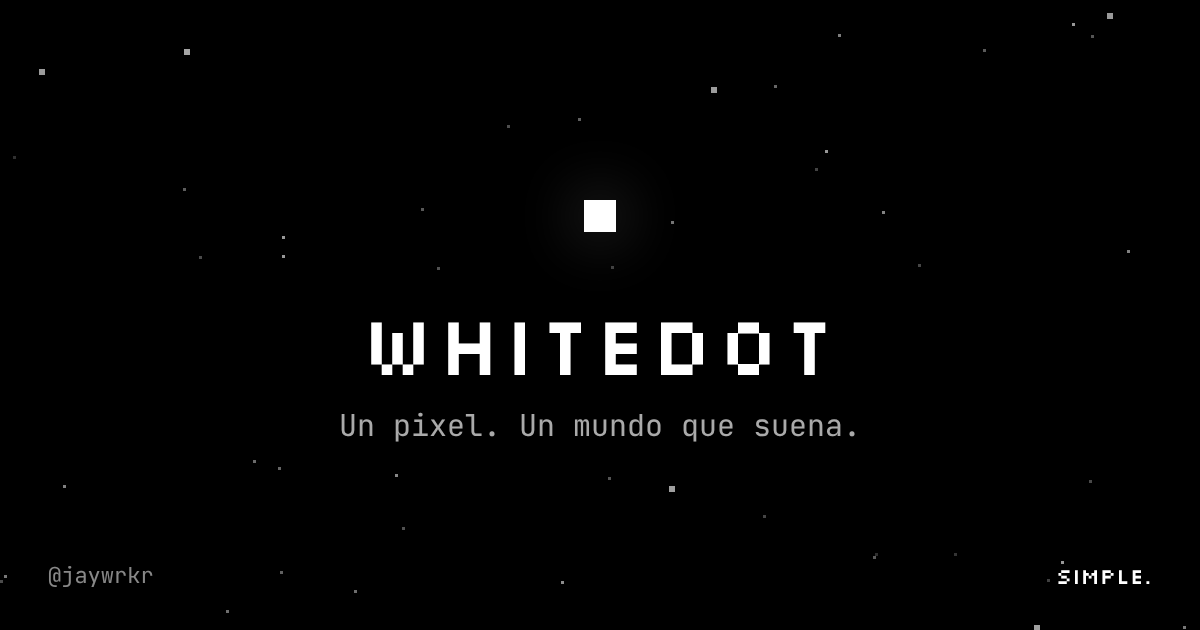
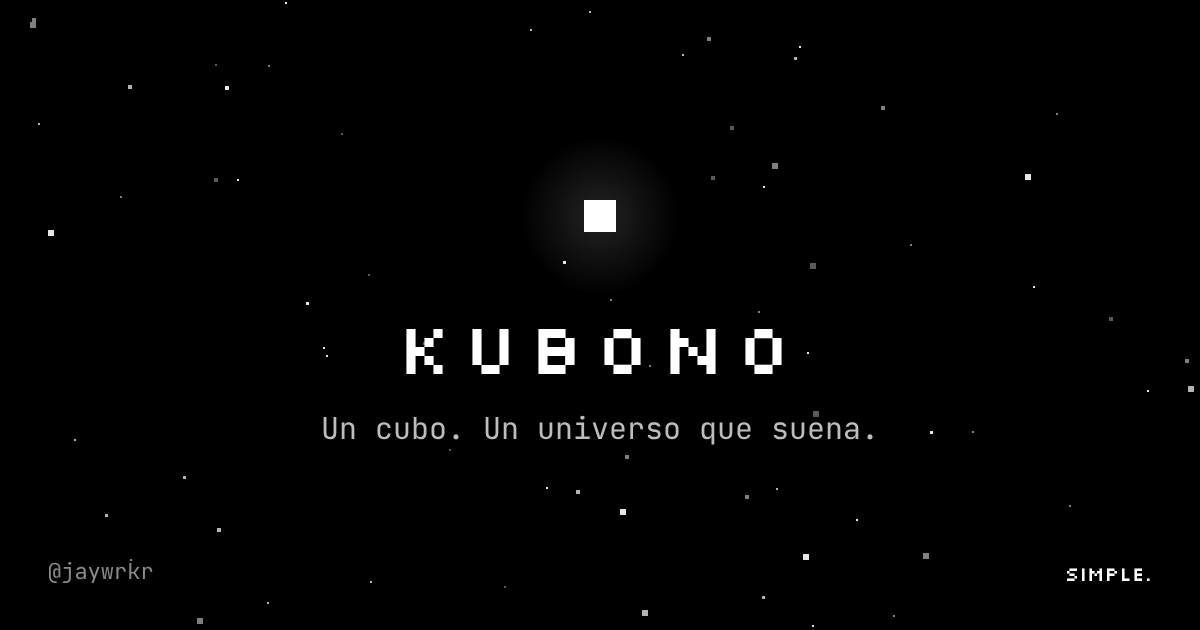
Rename the player-facing brand to Kubono, gate seed travel to development and keep one arrival per day
Titles, meta, manifest, Android label, share cards, image texts and download names now say Kubono; the social preview is re-rendered with the repository fonts. Save keys, cache names, the backup format, the Android package and the deployed URL keep their identifiers so progress and updates are preserved.

Seed travel and the lab catalog link are hidden outside development, travel to another seed's address is blocked with a notice, and a player already in another seed keeps the panel to return. seed_travel_gate_smoke covers it from a non-local host.

Reopening the game the same day keeps the player in place; the new daily place still arrives on entering the Mundo, and on load only for a save left in the Mundo across midnight. This also stops the load-time arrival from being consumed before enterWorld while in the Camino.

Claude-Session: https://claude.ai/code/session_01MfAicKf9iSVKBC9ZLtw4Pu

diff --git a/src/seeds.js b/src/seeds.js
@@ -23,6 +23,8 @@ export function initialize(runtime){
  function visit(value,{center=false}={}){if(!saveBeforeLeaving())return;const url=new URL(location.href);url.searchParams.delete('addr');if(center)url.searchParams.set('center','1');else url.searchParams.delete('center');url.searchParams.set('testSeed',normalizeSeed(value));url.searchParams.set('layout',$('seedLayout').value);url.searchParams.set('generation',$('seedGeneration').value);if(prototype&&select.value)url.searchParams.set('encounter',select.value);else url.searchParams.delete('encounter');if(prototype)url.searchParams.delete('travel');else{url.searchParams.set('travel','1');url.searchParams.delete('lab');}location.assign(url.href);}
  $('dSeeds').onclick=()=>open(true);$('seedClose').onclick=()=>$('mSeeds').hidden=true;
  $('bWorlds').onclick=()=>open(false);
+ // A player already in another seed keeps the panel to go back to the original world.
+ document.body.classList.toggle('seed-travel',!!runtime.S.previewSeed);
  $('seedForm').onsubmit=e=>{e.preventDefault();visit($('seedValue').value);};
  $('seedNext').onclick=()=>{$('seedLayout').value='vasto';visit('mundo-'+Date.now().toString(36));};
  $('seedCenter').onclick=()=>visit(runtime.S.previewSeed||'original',{center:true});
@@ -33,7 +35,9 @@ export function initialize(runtime){
   s.layer='superficie';s.wx=s.wy=runtime.REG*runtime.WCH/2;if(select.value==='installation'||new URLSearchParams(location.search).get('encounter')==='installation'){s.wx=2050;s.wy=900;}if(new URLSearchParams(location.search).get('encounter')==='glass'){s.wx=1080;s.wy=900;}if(select.value==='materia'||new URLSearchParams(location.search).get('encounter')==='materia'){s.wx=1800;s.wy=2450;}s.help.camino=true;s.help.mundo=true;s.helpV2=true;
   s.ach.mundo??=s.todayKey;s.mode='camino';runtime.enterWorld();if(keep){s.wx=position.x;s.wy=position.y;s.layer=position.layer;if(s.layer!=='superficie')runtime.restoreLayerMusic?.();}if(realTravel)s.travelReady=true;runtime.save();if(new URLSearchParams(location.search).has('center')){const url=new URL(location.href);url.searchParams.delete('center');history.replaceState(null,'',url);}
  }
- function visitAddress(address){if(!supportedWorld(address)||!supportedMusic(address)||address.seed&&normalizeSeed(address.seed)!==address.seed)return false;if(!saveBeforeLeaving())return false;try{sessionStorage.setItem(returnKey,encodePlace(placeAddress(runtime.musicalAddress?.()||runtime.worldIdentity,runtime.S.wx,runtime.S.wy,runtime.S.layer||'superficie')));}catch(_){}const url=new URL(location.href);for(const key of ['lab','encounter'])url.searchParams.delete(key);if(!address.seed&&address.layout==='classic'&&address.generatorVersion===1)url.searchParams.delete('testSeed');else url.searchParams.set('testSeed',address.seed||'original');url.searchParams.set('layout',address.layout);url.searchParams.set('generation',String(address.generatorVersion));url.searchParams.set('travel','1');url.searchParams.set('addr',encodePlace(address));location.assign(url.href);return true;}
+ // Other seeds are separate saves and online copies: outside development only the current world and the original one are reachable.
+ function seedTravelOpen(address){return document.body.classList.contains('dev')||sameWorld(address,runtime.worldIdentity)||!address.seed&&address.layout==='classic'&&address.generatorVersion===1;}
+ function visitAddress(address){if(!supportedWorld(address)||!supportedMusic(address)||address.seed&&normalizeSeed(address.seed)!==address.seed)return false;if(!seedTravelOpen(address)){runtime.toast('Ese lugar es de otra semilla.');return false;}if(!saveBeforeLeaving())return false;try{sessionStorage.setItem(returnKey,encodePlace(placeAddress(runtime.musicalAddress?.()||runtime.worldIdentity,runtime.S.wx,runtime.S.wy,runtime.S.layer||'superficie')));}catch(_){}const url=new URL(location.href);for(const key of ['lab','encounter'])url.searchParams.delete(key);if(!address.seed&&address.layout==='classic'&&address.generatorVersion===1)url.searchParams.delete('testSeed');else url.searchParams.set('testSeed',address.seed||'original');url.searchParams.set('layout',address.layout);url.searchParams.set('generation',String(address.generatorVersion));url.searchParams.set('travel','1');url.searchParams.set('addr',encodePlace(address));location.assign(url.href);return true;}
  const code=new URLSearchParams(location.search).get('addr');if(code)try{const {address}=decodePlace(code);if(sameWorld(address,runtime.worldIdentity)){arrivedByAddress=true;runtime.S.wx=address.x;runtime.S.wy=address.y;runtime.S.layer=address.layer;if(address.musicVersion===1){runtime.S.livingMusic=address.musicMode==='live';runtime.refreshLivingMusic?.();}runtime.S.travelReady=true;runtime.ptr=null;if(address.layer!=='superficie')runtime.restoreLayerMusic?.();runtime.save();const url=new URL(location.href);url.searchParams.delete('addr');url.searchParams.set('travel','1');history.replaceState(null,'',url);}else runtime.toast('El código necesita su semilla y versión originales.');}catch(_){runtime.toast('No se pudo abrir el código de regreso.');}
  Object.defineProperties(runtime,{arrivedByAddress:{get:()=>arrivedByAddress},openSeedLab:{get:()=>open},visitWorldAddress:{get:()=>visitAddress},previousWorldAddress:{get:()=>previousAddress}});
 }

diff --git a/src/rare-cards.js b/src/rare-cards.js
@@ -84,7 +84,7 @@ export function initialize(runtime){
    ${context.length?'<p class="rare-biome">'+escape(context.join(' · '))+'</p>':''}${card.observations?.length?'<p class="rare-biome">'+card.observations.length+' observaciones posteriores</p>':''}
    ${card.forced?'<p class="rare-provenance">Muestra forzada; no demuestra un encuentro natural.</p>':''}${card.legacy?'<p class="rare-provenance">Recuperada del progreso anterior; sin hora original.</p>':''}
    <details><summary>Cómo de raro es</summary><p>${escape(card.odds.condition)}</p></details>
-   ${card.learning?.version===1?`<p class="rare-biome">${card.learning.contexts.length} encuentros distintos · ${card.learning.techniques.length} interpretaciones</p>${card.learning.techniques.length<2?'<small>Vuelve bajo otra luz o prueba otro gesto.</small>':''}<button data-rare-technique="${index}" ${card.learning.techniques.length<2?'disabled':''}>Interpretación · ${escape(CARD_TECHNIQUES[card.learning.selected]||'Natural')}</button>`:''}${powerInfo}${address?`<div class="rare-actions"><button data-rare-png="${index}">Imagen</button><button data-rare-copy="${index}">Copiar lugar</button><button data-rare-return="${index}" ${canReturn?'':'disabled'}>Orientar</button></div>${canReturn?'':'<p class="rare-provenance">Para volver: Menú → Viajar a otra semilla.</p>'}`:''}
+   ${card.learning?.version===1?`<p class="rare-biome">${card.learning.contexts.length} encuentros distintos · ${card.learning.techniques.length} interpretaciones</p>${card.learning.techniques.length<2?'<small>Vuelve bajo otra luz o prueba otro gesto.</small>':''}<button data-rare-technique="${index}" ${card.learning.techniques.length<2?'disabled':''}>Interpretación · ${escape(CARD_TECHNIQUES[card.learning.selected]||'Natural')}</button>`:''}${powerInfo}${address?`<div class="rare-actions"><button data-rare-png="${index}">Imagen</button><button data-rare-copy="${index}">Copiar lugar</button><button data-rare-return="${index}" ${canReturn?'':'disabled'}>Orientar</button></div>${canReturn?'':'<p class="rare-provenance">Encontrada en otra semilla.</p>'}`:''}
   </details></article>`;
  }
  function cards(search=''){
@@ -99,8 +99,8 @@ export function initialize(runtime){
   await document.fonts.load('400 22px "Geist Mono"');
   const canvas=document.createElement('canvas');canvas.width=512;canvas.height=720;const c=canvas.getContext('2d');c.fillStyle='#000';c.fillRect(0,0,512,720);c.strokeStyle=CARD_TIERS[card.odds.tier].ink;c.lineWidth=2;c.strokeRect(24,24,464,672);
   const svg=rarePortrait(card).replace('<svg ', '<svg xmlns="http://www.w3.org/2000/svg" ').replace('class="rare-glyph"','stroke="#d7c497" fill="none" stroke-width="1.3"').replace('class="rare-orbit"','stroke="#596268" fill="none"').replace('class="rare-sparks"','stroke="#d7c497" fill="none"');
-  const url=URL.createObjectURL(new Blob([svg],{type:'image/svg+xml'}));try{const img=new Image();img.src=url;await img.decode();c.drawImage(img,96,110,320,240);c.fillStyle='#e5e9e9';c.font='22px "Geist Mono", monospace';c.textAlign='center';c.fillText(card.name.slice(0,33),256,395);c.font='14px "Geist Mono", monospace';[location(card),rarityLabel(card.type,card.odds),'Semilla '+(card.world.seed||'original'),card.world.layout+' · '+(card.address?.layer||'sin ubicación'),'WHITEDOT · #'+cardSerial(card.id)].forEach((text,i)=>c.fillText(text.slice(0,49),256,450+i*35));
-   const blob=await new Promise(resolve=>canvas.toBlob(resolve,'image/png'));if(!blob)throw Error('Imagen no disponible');const out=URL.createObjectURL(blob),a=document.createElement('a');a.href=out;a.download='whitedot-'+cardSerial(card.id)+'.png';a.click();setTimeout(()=>URL.revokeObjectURL(out),1000);
+  const url=URL.createObjectURL(new Blob([svg],{type:'image/svg+xml'}));try{const img=new Image();img.src=url;await img.decode();c.drawImage(img,96,110,320,240);c.fillStyle='#e5e9e9';c.font='22px "Geist Mono", monospace';c.textAlign='center';c.fillText(card.name.slice(0,33),256,395);c.font='14px "Geist Mono", monospace';[location(card),rarityLabel(card.type,card.odds),'Semilla '+(card.world.seed||'original'),card.world.layout+' · '+(card.address?.layer||'sin ubicación'),'KUBONO · #'+cardSerial(card.id)].forEach((text,i)=>c.fillText(text.slice(0,49),256,450+i*35));
+   const blob=await new Promise(resolve=>canvas.toBlob(resolve,'image/png'));if(!blob)throw Error('Imagen no disponible');const out=URL.createObjectURL(blob),a=document.createElement('a');a.href=out;a.download='kubono-'+cardSerial(card.id)+'.png';a.click();setTimeout(()=>URL.revokeObjectURL(out),1000);
   }catch(_){runtime.toast('No se pudo exportar la imagen. El código del lugar sigue disponible.');}finally{URL.revokeObjectURL(url);}
  }
  async function action(event){

diff --git a/src/identity-play.js b/src/identity-play.js
@@ -11,7 +11,7 @@ export function initialize(runtime){let owner=null,showAll=false;
  function panel(){const b=book(),items=b.items.filter(c=>c&&Array.isArray(c.points)&&typeof c.id==='string'),canSave=constellationPoints(runtime.S.session?.constellation).length&&!b.readOnly&&b.items.length<24;
   return '<article class="journal-card constellation-summary"><h3>Tu música deja una figura</h3><p>Conserva relaciones y lugares. La música continúa viviendo.</p><button data-constellation-save '+(canSave?'':'disabled')+'>Conservar constelación</button>'+items.slice(showAll?0:-3).reverse().map(c=>'<details class="musical-constellation"><summary>'+safe(c.day)+' · '+constellationPoints(c.points).length+' voces</summary>'+svg(c)+'<button data-constellation-image="'+safe(c.id)+'">Imagen</button>'+(supportedWorld(c.address)&&Number.isFinite(c.address.x)&&Number.isFinite(c.address.y)?'<button data-constellation-return="'+safe(c.id)+'">Volver al lugar</button>':'')+(Array.isArray(c.cardIds)&&c.cardIds.length?'<button data-constellation-home="'+safe(c.id)+'">Usar voces en casa</button>':'')+'</details>').join('')+(items.length>3?'<button data-constellation-more>'+ (showAll?'Ver recientes':'Ver todas') +'</button>':'')+'<small>'+items.length+' constelaciones conservadas</small></article>';
  }
- async function image(item){await document.fonts.load('400 24px "Geist Mono"');const canvas=document.createElement('canvas');canvas.width=1080;canvas.height=1350;const c=canvas.getContext('2d'),points=constellationPlot(item.points);c.fillStyle='#000';c.fillRect(0,0,1080,1350);c.strokeStyle='#ffffff55';c.lineWidth=2;c.beginPath();points.forEach((p,i)=>c[i?'lineTo':'moveTo'](80+p.x*920,300+p.y*700));c.stroke();c.fillStyle='#fff';for(const p of points)c.fillRect(80+p.x*920-4,300+p.y*700-4,8,8);c.font='24px "Geist Mono", monospace';c.fillText('WHITEDOT · '+item.day,80,160);c.fillText('Una constelación de voces.',80,1180);runtime.$('shareImg').src=canvas.toDataURL('image/png');runtime.$('shareImg').alt='Mi constelación musical';runtime.$('mJournal').hidden=true;runtime.$('mShare').hidden=false;}
+ async function image(item){await document.fonts.load('400 24px "Geist Mono"');const canvas=document.createElement('canvas');canvas.width=1080;canvas.height=1350;const c=canvas.getContext('2d'),points=constellationPlot(item.points);c.fillStyle='#000';c.fillRect(0,0,1080,1350);c.strokeStyle='#ffffff55';c.lineWidth=2;c.beginPath();points.forEach((p,i)=>c[i?'lineTo':'moveTo'](80+p.x*920,300+p.y*700));c.stroke();c.fillStyle='#fff';for(const p of points)c.fillRect(80+p.x*920-4,300+p.y*700-4,8,8);c.font='24px "Geist Mono", monospace';c.fillText('KUBONO · '+item.day,80,160);c.fillText('Una constelación de voces.',80,1180);runtime.$('shareImg').src=canvas.toDataURL('image/png');runtime.$('shareImg').alt='Mi constelación musical';runtime.$('mJournal').hidden=true;runtime.$('mShare').hidden=false;}
  runtime.$('journalBody').addEventListener('click',e=>{if(e.target.closest('[data-constellation-more]')){showAll=!showAll;runtime.refreshJournal?.();return;}const save=e.target.closest('[data-constellation-save]');if(save){capture();return;}const b=e.target.closest('[data-constellation-image],[data-constellation-return],[data-constellation-home]');if(!b)return;const id=b.dataset.constellationImage||b.dataset.constellationReturn||b.dataset.constellationHome,item=book().items.find(c=>c&&c.id===id);if(!item)return;
   if(b.dataset.constellationImage)image(item);else if(b.dataset.constellationReturn)runtime.visitWorldAddress?.(item.address);else if(b.dataset.constellationHome&&!runtime.gardenState.readOnly){runtime.gardenState.cards=(Array.isArray(item.cardIds)?item.cardIds:[]).filter(id=>runtime.rareCards.some(c=>c.id===id)).slice(0,4);runtime.save();runtime.$('mJournal').hidden=true;runtime.enterHouse();}
  });

diff --git a/src/share-tools.js b/src/share-tools.js
@@ -42,7 +42,7 @@ export function initialize(runtime){
   const same=sameWorld(place.address,runtime.worldIdentity);
   const point=runtime.addFavoriteAddress?.(place.address,place.name||'Lugar compartido');
   if(!point){$('placeCodeInfo').textContent=runtime.storageStatus.kind==='ok'?'Favoritos lleno. Libera un lugar.':'No se pudo guardar en este dispositivo.';return null;}
-  $('placeCodeInfo').textContent=same?'Guardado en Favoritos. Te oriento hacia allá.':`Guardado. Es de otro mundo (semilla “${place.address.seed||'original'}”): ábrelo desde Viajar a otra semilla.`;
+  $('placeCodeInfo').textContent=same?'Guardado en Favoritos. Te oriento hacia allá.':`Guardado. Es de otra semilla (“${place.address.seed||'original'}”).`;
   if(same)runtime.selectDestination?.(point.id);runtime.unlock('codigoAbierto');return point;
  }
  $('placeShare').onclick=shareHere;
@@ -57,7 +57,7 @@ export function initialize(runtime){
    const w=game.width,h=game.height,area=1080/1250,cw=w/h>area?h*area:w,ch=w/h>area?h:w/area;
    if(w&&h)x.drawImage(game,(w-cw)/2,(h-ch)/2,cw,ch,0,0,1080,1250);
    x.fillStyle='#000';x.fillRect(0,1250,1080,100);x.textBaseline='middle';
-   x.fillStyle='#fff';x.font='34px "Geist Mono", monospace';x.fillText('WHITEDOT',56,1300);
+   x.fillStyle='#fff';x.font='34px "Geist Mono", monospace';x.fillText('KUBONO',56,1300);
    x.fillStyle='#ffffff99';x.font='26px "Geist Mono", monospace';x.textAlign='right';x.fillText('@jaywrkr',1024,1300);x.textAlign='left';
   };
   draw();return {canvas:c,timer:setInterval(draw,1000/30)};
@@ -87,14 +87,14 @@ export function initialize(runtime){
  function finish(type){
   if(!rec.recorder)return;
   releaseCapture();
-  const blob=new Blob(rec.chunks,{type:type.split(';')[0]}),ext=type.includes('mp4')?'mp4':'webm',name=`whitedot-set-${new Date().toISOString().slice(0,16).replace(/[:T]/g,'-')}.${ext}`;
+  const blob=new Blob(rec.chunks,{type:type.split(';')[0]}),ext=type.includes('mp4')?'mp4':'webm',name=`kubono-set-${new Date().toISOString().slice(0,16).replace(/[:T]/g,'-')}.${ext}`;
   rec.recorder=null;rec.dest=null;setUI();if(!blob.size){runtime.toast('<em>Grabar</em> · no se grabó nada');return;}
   if(rec.url)URL.revokeObjectURL(rec.url);
   const url=rec.url=URL.createObjectURL(blob),file=new File([blob],name,{type:blob.type});runtime.lastSet={url,name,size:blob.size,type:blob.type,file};
   $('setVideo').src=url;$('setDownload').href=url;$('setDownload').download=name;$('setShare').hidden=!(navigator.canShare?.({files:[file]}));$('mSet').hidden=false;runtime.S.setCount=(runtime.S.setCount||0)+1;(runtime.S.setLog||=[]).push({at:new Date().toISOString().slice(0,10),name:name.slice(0,80),seconds:Math.min(60,Math.round((Date.now()-rec.started)/1000))});if(runtime.S.setLog.length>100)runtime.S.setLog.shift();runtime.save();runtime.unlock('set1');
  }
  $('bRecord').onclick=e=>{e.stopPropagation();start();};$('recBadge').onclick=stop;
- $('setShare').onclick=async()=>{const f=runtime.lastSet?.file;if(f)try{await navigator.share({files:[f],title:'Mi set en WHITEDOT',text:'@jaywrkr'});}catch(_){}};
+ $('setShare').onclick=async()=>{const f=runtime.lastSet?.file;if(f)try{await navigator.share({files:[f],title:'Mi set en Kubono',text:'@jaywrkr'});}catch(_){}};
  $('setClose').onclick=()=>{$('mSet').hidden=true;};
  addEventListener('pagehide',()=>{if(rec.recorder)stop();});
  Object.defineProperties(runtime,{encodeFavorite:{get:()=>point=>encodePlace(point.address,point.name)},placeCode:{get:()=>currentCode},openPlaceCode:{get:()=>openCode},startSet:{get:()=>start},stopSet:{get:()=>stop},setRecording:{get:()=>!!rec.recorder}});

diff --git a/src/celebration.js b/src/celebration.js
@@ -42,9 +42,9 @@ export function initialize(runtime){
  }
  async function share(){const event=current;if(!event?.power)return;const canvas=document.createElement('canvas');canvas.width=512;canvas.height=640;const c=canvas.getContext('2d');c.fillStyle='#000';c.fillRect(0,0,512,640);c.strokeStyle=runtime.GOLD;c.strokeRect(24,24,464,592);
   const svg=rarePortrait({type:'box:'+event.power}).replace('<svg ','<svg xmlns="http://www.w3.org/2000/svg" ').replace('class="rare-glyph"','stroke="#f0d27a" fill="none" stroke-width="1.5"').replace('class="rare-orbit"','stroke="#ffffff44" fill="none"').replace('class="rare-sparks"','stroke="#f0d27a" fill="none"');
-  const url=URL.createObjectURL(new Blob([svg],{type:'image/svg+xml'}));try{await document.fonts.load('400 24px "Geist Mono"');const image=new Image();image.src=url;await image.decode();c.drawImage(image,96,80,320,240);c.textAlign='center';c.fillStyle='#fff';c.font='24px "Geist Mono", monospace';c.fillText(event.name.toUpperCase(),256,355,440);c.font='14px "Geist Mono",monospace';c.fillStyle=runtime.GOLD;c.fillText(event.gift?'Regalo · poder temporal':REWARD_RARITIES[event.rarity].name,256,390);c.fillStyle='#fff';c.fillText(event.seconds+' s de juego',256,420);c.font='12px "Geist Mono",monospace';const words=event.effect.split(' ');for(let i=0;i<words.length;i+=7)c.fillText(words.slice(i,i+7).join(' '),256,455+i/7*22);c.fillText('WHITEDOT · @jaywrkr',256,590);
+  const url=URL.createObjectURL(new Blob([svg],{type:'image/svg+xml'}));try{await document.fonts.load('400 24px "Geist Mono"');const image=new Image();image.src=url;await image.decode();c.drawImage(image,96,80,320,240);c.textAlign='center';c.fillStyle='#fff';c.font='24px "Geist Mono", monospace';c.fillText(event.name.toUpperCase(),256,355,440);c.font='14px "Geist Mono",monospace';c.fillStyle=runtime.GOLD;c.fillText(event.gift?'Regalo · poder temporal':REWARD_RARITIES[event.rarity].name,256,390);c.fillStyle='#fff';c.fillText(event.seconds+' s de juego',256,420);c.font='12px "Geist Mono",monospace';const words=event.effect.split(' ');for(let i=0;i<words.length;i+=7)c.fillText(words.slice(i,i+7).join(' '),256,455+i/7*22);c.fillText('KUBONO · @jaywrkr',256,590);
    c.fillStyle='#ffffff99';c.font='11px "Geist Mono", monospace';c.fillText(event.where||'',256,540,420);c.fillText('#'+(event.serial||cardSerial(event.id)),256,563);
-   const blob=await new Promise(resolve=>canvas.toBlob(resolve,'image/png'));if(!blob)throw Error('PNG');const out=URL.createObjectURL(blob),a=document.createElement('a');a.href=out;a.download='whitedot-poder-'+event.power+'.png';a.click();setTimeout(()=>URL.revokeObjectURL(out),1000);
+   const blob=await new Promise(resolve=>canvas.toBlob(resolve,'image/png'));if(!blob)throw Error('PNG');const out=URL.createObjectURL(blob),a=document.createElement('a');a.href=out;a.download='kubono-poder-'+event.power+'.png';a.click();setTimeout(()=>URL.revokeObjectURL(out),1000);
   }catch(_){runtime.toast('Intenta compartir de nuevo. Tu hallazgo sigue guardado.');}finally{URL.revokeObjectURL(url);}
  }
  $('celebrationDismiss').onclick=close;$('celebrationContinue').onclick=()=>{if(current&&panel.dataset.layout==='compact'){panel.dataset.layout='full';panel.dataset.inspect='true';panel.setAttribute('role','dialog');panel.setAttribute('aria-modal','true');$('celebrationContinue').textContent='Volver';$('celebrationContinue').focus({preventScroll:true});}else close();};$('celebrationShare').onclick=share;

diff --git a/src/save-tools.js b/src/save-tools.js
@@ -4,7 +4,7 @@ export function initialize(runtime){
  function text(message){status.textContent=message;}
  function refresh(){const s=runtime.storageStatus;text(s.message);$('saveRecover').hidden=s.kind!=='recovered';$('saveImportApply').disabled=!pending;$('saveOriginal').hidden=!runtime.saveStore.original()||!s.locked;}
  function download(value,name){const blob=new Blob([value],{type:'application/json'}),url=URL.createObjectURL(blob),a=document.createElement('a');a.href=url;a.download=name;document.body.append(a);a.click();a.remove();setTimeout(()=>URL.revokeObjectURL(url),1000);}
- function exportCurrent(){try{runtime.S.collected=[...runtime.collected];const data=makeBackup(runtime.S,runtime.fresh(),runtime.worldIdentity,runtime.saveScope);download(checkSaveSize(JSON.stringify(data)),`whitedot-${runtime.saveScope.kind}-${runtime.saveScope.seed||'principal'}-${runtime.worldIdentity.generatorVersion===2?'vivo':'original'}.json`);text('Copia descargada. Guárdala para recuperar esta partida.');}catch(error){text(error.message);}}
+ function exportCurrent(){try{runtime.S.collected=[...runtime.collected];const data=makeBackup(runtime.S,runtime.fresh(),runtime.worldIdentity,runtime.saveScope);download(checkSaveSize(JSON.stringify(data)),`kubono-${runtime.saveScope.kind}-${runtime.saveScope.seed||'principal'}-${runtime.worldIdentity.generatorVersion===2?'vivo':'original'}.json`);text('Copia descargada. Guárdala para recuperar esta partida.');}catch(error){text(error.message);}}
  async function choose(file){pending=null;$('saveImportApply').disabled=true;const token=++reading;if(!file)return;
   try{if(file.size>MAX_SAVE_BYTES)throw Error('Archivo demasiado grande');const raw=await file.text();if(token!==reading)return;pending=readBackup(raw,runtime.fresh(),runtime.worldIdentity,runtime.saveScope);text(`Copia válida: ${Object.keys(pending.ach||{}).length} logros · ${pending.favorites.items.length} favoritos. Restaurar conserva una copia previa y recarga el juego.`);$('saveImportApply').disabled=false;}catch(error){if(token===reading)text(error.message);}
  }
@@ -13,6 +13,6 @@ export function initialize(runtime){
  function open(){pending=null;$('saveImportFile').value='';reading++;refresh();panel.hidden=false;}
  function tick(){const s=runtime.storageStatus;if(s.kind==='ok'){lastNotice='';return;}if(s.kind!==lastNotice&&runtime.toast){lastNotice=s.kind;runtime.toast('No pudimos guardar en este dispositivo. Tu progreso necesita atención.');}}
  $('bSaveTools').onclick=open;$('saveToolsClose').onclick=()=>{panel.hidden=true;reading++;pending=null;};$('saveExport').onclick=exportCurrent;$('saveImportFile').onchange=e=>choose(e.target.files[0]);$('saveImportApply').onclick=apply;$('saveRecover').onclick=recover;
- $('saveOriginal').onclick=()=>download(runtime.saveStore.original(),'whitedot-original-conservado.json');
+ $('saveOriginal').onclick=()=>download(runtime.saveStore.original(),'kubono-original-conservado.json');
  Object.defineProperties(runtime,{saveToolsTick:{get:()=>tick},openSaveTools:{get:()=>open}});
 }

diff --git a/index.html b/index.html
@@ -7,24 +7,24 @@
 <meta name="apple-mobile-web-app-capable" content="yes">
 <meta name="mobile-web-app-capable" content="yes">
 <meta name="apple-mobile-web-app-status-bar-style" content="black-translucent">
-<meta name="apple-mobile-web-app-title" content="WHITEDOT">
-<meta name="description" content="Un pixel. Un mundo que suena. Juega en el navegador o instálalo en tu teléfono.">
+<meta name="apple-mobile-web-app-title" content="Kubono">
+<meta name="description" content="Un cubo. Un universo que suena. Juega en el navegador o instálalo en tu teléfono.">
 <meta property="og:type" content="website">
-<meta property="og:site_name" content="WHITEDOT">
-<meta property="og:title" content="WHITEDOT">
-<meta property="og:description" content="Un pixel. Un mundo que suena.">
+<meta property="og:site_name" content="Kubono">
+<meta property="og:title" content="Kubono">
+<meta property="og:description" content="Un cubo. Un universo que suena.">
 <meta property="og:url" content="https://whitedot-inky.vercel.app/">
 <meta property="og:image" content="https://whitedot-inky.vercel.app/icons/og-1200x630.png">
 <meta property="og:image:width" content="1200">
 <meta property="og:image:height" content="630">
-<meta property="og:image:alt" content="Un pixel blanco sobre negro y la palabra WHITEDOT">
+<meta property="og:image:alt" content="Un cubo blanco sobre negro y la palabra KUBONO">
 <meta property="og:locale" content="es_ES">
 <meta name="twitter:card" content="summary_large_image">
 <link rel="manifest" href="./manifest.webmanifest">
 <link rel="icon" type="image/png" sizes="192x192" href="./icons/icon-192.png">
 <link rel="apple-touch-icon" href="./icons/apple-touch-icon.png">
 
-<title>WHITEDOT</title>
+<title>Kubono</title>
 <link rel="stylesheet" href="./styles/game.css">
 <link rel="stylesheet" href="./styles/interface.css">
 <link rel="stylesheet" href="./assets/fonts/fonts.css">
@@ -142,7 +142,7 @@
 </div></div>
 <div class="modal menu" id="mMenu" hidden>
   <div class="sheet menu-sheet">
-    <header class="menu-heading"><div><small>Tu espacio</small><h2 id="menuTitle">WHITEDOT</h2></div><button id="mnClose" class="sheet-close" aria-label="Cerrar menú">×</button></header>
+    <header class="menu-heading"><div><small>Tu espacio</small><h2 id="menuTitle">Kubono</h2></div><button id="mnClose" class="sheet-close" aria-label="Cerrar menú">×</button></header>
     <div class="menu-sections">
     <section class="menu-group primary"><h3>Jugar</h3><div class="tiles">
       <button id="bSparks"><svg viewBox="0 0 24 24" aria-hidden="true"><path d="m12 3 6 9-6 9-6-9Z M6 12h12M12 3v18"/></svg><span>Viajar y chispas</span></button>

diff --git a/src/session.js b/src/session.js
@@ -44,8 +44,8 @@ export function initialize(runtime) {
     x.fillStyle=runtime.GOLD;x.font='28px "Geist Mono", monospace';x.fillText('MÚSICA ESCUCHADA',80,850);
     const names=s.genres.map(id=>runtime.GEN[id]?.name||id);x.fillStyle='#fff';x.font='30px "Geist Mono", monospace';
     (names.length?names.slice(0,5):['Una sesión de exploración']).forEach((name,i)=>x.fillText(name,80,925+i*45,920));
-    x.fillStyle='#8a8a8f';x.font='26px "Geist Mono", monospace';x.fillText('WHITEDOT · PIXEL BLANCO · @jaywrkr',80,1250);
-    runtime.$('shareImg').src=c.toDataURL('image/png');runtime.$('shareImg').alt='Resumen de mi sesión en WHITEDOT';runtime.$('mSession').hidden=true;runtime.$('mShare').hidden=false;
+    x.fillStyle='#8a8a8f';x.font='26px "Geist Mono", monospace';x.fillText('KUBONO · @jaywrkr',80,1250);
+    runtime.$('shareImg').src=c.toDataURL('image/png');runtime.$('shareImg').alt='Resumen de mi sesión en Kubono';runtime.$('mSession').hidden=true;runtime.$('mShare').hidden=false;
   }
   Object.defineProperties(runtime,{syncSession:{get:()=>syncSession},beginSession:{get:()=>beginSession},finishSession:{get:()=>finishSession},sessionTime:{get:()=>sessionTime},sessionAction:{get:()=>sessionAction},sessionVisit:{get:()=>sessionVisit},sessionInstrument:{get:()=>sessionInstrument},sessionSummary:{get:()=>sessionSummary},openSession:{get:()=>openSession},shareSession:{get:()=>shareSession}});
   if(runtime.inWorld())beginSession();

diff --git a/src/practice-travel.js b/src/practice-travel.js
@@ -94,9 +94,9 @@ export function initialize(runtime){
   const path={px:s.px,py:s.py};if(s.mode==='camino'){s.px+=(runtime.REG*runtime.WCH)*(.2+serial%5*.05);s.py=runtime.pathY(s.px);}
   if(!move(point,state,null,false)){Object.assign(s,path);return false;}arrived=true;return true;
  }
- // A new document is a fresh visit. Background/resume never runs this again.
- // Explicit addresses and preview saves retain their exact coordinates.
- if(runtime.scopeHadSave)dailyArrival();
+ // One new place per day: entering the Mundo brings it (ui.js enterWorld). Reopening the same day keeps the player where they were;
+ // only a save left in the Mundo across midnight gets the new day's arrival on load. Explicit addresses and preview saves keep their coordinates.
+ if(runtime.scopeHadSave&&runtime.S.mode==='world'&&runtime.S.lastWorldDay!==runtime.S.todayKey&&dailyArrival()){runtime.S.lastWorldDay=runtime.S.todayKey;runtime.save();}
  $('bJump').onclick=jump;$('bJumpBack').onclick=back;setInterval(ui,250);ui();
  Object.defineProperties(runtime,{canPracticeTravel:{get:()=>()=>!blocked()&&!runtime.duetRoom},travelPracticePoint:{get:()=>travel},dailyArrival:{get:()=>dailyArrival},jumpPracticePlace:{get:()=>jump},returnPracticePlace:{get:()=>back}});
 }

diff --git a/src/map.js b/src/map.js
@@ -77,8 +77,8 @@ export function initialize(runtime){
   x.textBaseline="top";x.fillStyle="#fff";x.font='96px "Geist Mono", monospace';x.fillText("MI MAPA",100,96);
   x.font='28px "Geist Mono", monospace';x.fillStyle="#8a8a8f";x.fillText(`DÍA ${runtime.displayDay()} · SOLO LO QUE VI`,104,206);
   x.fillStyle="#fff";x.font='600 34px "Geist Mono", monospace';x.fillText(`REGIONES ${m.cells.length}`,100,1160);x.fillText(`CONTINENTES ${m.continents}`,440,1160);x.fillText(`RÉCORD ${m.record}`,820,1160);
-  x.fillStyle="#8a8a8f";x.font='26px "Geist Mono", monospace';x.fillText("PIXEL BLANCO  ·  @jaywrkr",100,1250);
-  runtime.$("shareImg").alt="Mi mapa en WHITEDOT";runtime.$("shareImg").src=c.toDataURL("image/png");$("mMap").hidden=true;runtime.$("mShare").hidden=false;
+  x.fillStyle="#8a8a8f";x.font='26px "Geist Mono", monospace';x.fillText("KUBONO  ·  @jaywrkr",100,1250);
+  runtime.$("shareImg").alt="Mi mapa en Kubono";runtime.$("shareImg").src=c.toDataURL("image/png");$("mMap").hidden=true;runtime.$("mShare").hidden=false;
  }
  $("bMap").onclick=open;$("mapClose").onclick=()=>{$("mMap").hidden=true;};
  $("mapZoom").onclick=()=>{zoom=zoom==='mundo'?'cerca':'mundo';render();};$("mapShare").onclick=share;

diff --git a/src/sharing.js b/src/sharing.js
@@ -45,8 +45,8 @@ export function initialize(runtime) {
     x.fillStyle="#fff";x.font='600 34px "Geist Mono", monospace';
     x.fillText("RACHA "+runtime.shownStreak(),100,1040);x.fillText("ESTRELLAS "+runtime.S.stars.length,430,1040);x.fillText("TAMAÑO "+runtime.level(),800,1040);
     x.font='40px "Geist Mono", monospace';x.fillText(runtime.shownStreak()>1?"No fallé. "+runtime.shownStreak()+" días seguidos.":"Hoy sumé.",100,1120);
-    x.fillStyle="#8a8a8f";x.font='26px "Geist Mono", monospace';x.fillText("WHITEDOT  ·  @jaywrkr",100,1236);x.fillStyle="#fff";x.font='30px "Geist Mono", monospace';x.textAlign="right";x.fillText("SIMPLE.",980,1232);x.textAlign="left";
-    runtime.$("shareImg").alt=kind==="sky"?"Mi constelación en WHITEDOT":"Mi día en WHITEDOT";
+    x.fillStyle="#8a8a8f";x.font='26px "Geist Mono", monospace';x.fillText("KUBONO  ·  @jaywrkr",100,1236);x.fillStyle="#fff";x.font='30px "Geist Mono", monospace';x.textAlign="right";x.fillText("SIMPLE.",980,1232);x.textAlign="left";
+    runtime.$("shareImg").alt=kind==="sky"?"Mi constelación en Kubono":"Mi día en Kubono";
     runtime.$("shareImg").src=c.toDataURL("image/png");runtime.$("mShare").hidden=false;
   }
 

diff --git a/src/lab-catalog.js b/src/lab-catalog.js
@@ -89,7 +89,7 @@ export const labTested=n=>!!(n&&(n.verdict||n.text||Object.keys(n.checks||{}).le
 export function labReport(notes,{date='',build=''}={}){
  const clean=normalizeLabNotes(notes),tested=LAB_ELEMENTS.filter(e=>labTested(clean[e.id]));
  const count=v=>tested.filter(e=>clean[e.id].verdict===v).length;
- const lines=[`# Laboratorio WHITEDOT${date?' · '+date:''}`,'',`Probados: ${tested.length} de ${LAB_ELEMENTS.length} · Bien ${count('ok')} · Mejorar ${count('fix')} · Quitar ${count('cut')}${build?' · '+build:''}`,''];
+ const lines=[`# Laboratorio Kubono${date?' · '+date:''}`,'',`Probados: ${tested.length} de ${LAB_ELEMENTS.length} · Bien ${count('ok')} · Mejorar ${count('fix')} · Quitar ${count('cut')}${build?' · '+build:''}`,''];
  for(const group of LAB_GROUPS){
   const items=tested.filter(e=>e.group===group);if(!items.length)continue;lines.push(`## ${group}`,'');
   for(const e of items){const n=clean[e.id];lines.push(`### ${e.name}${n.verdict?' — '+LAB_VERDICTS[n.verdict]:''}`);
